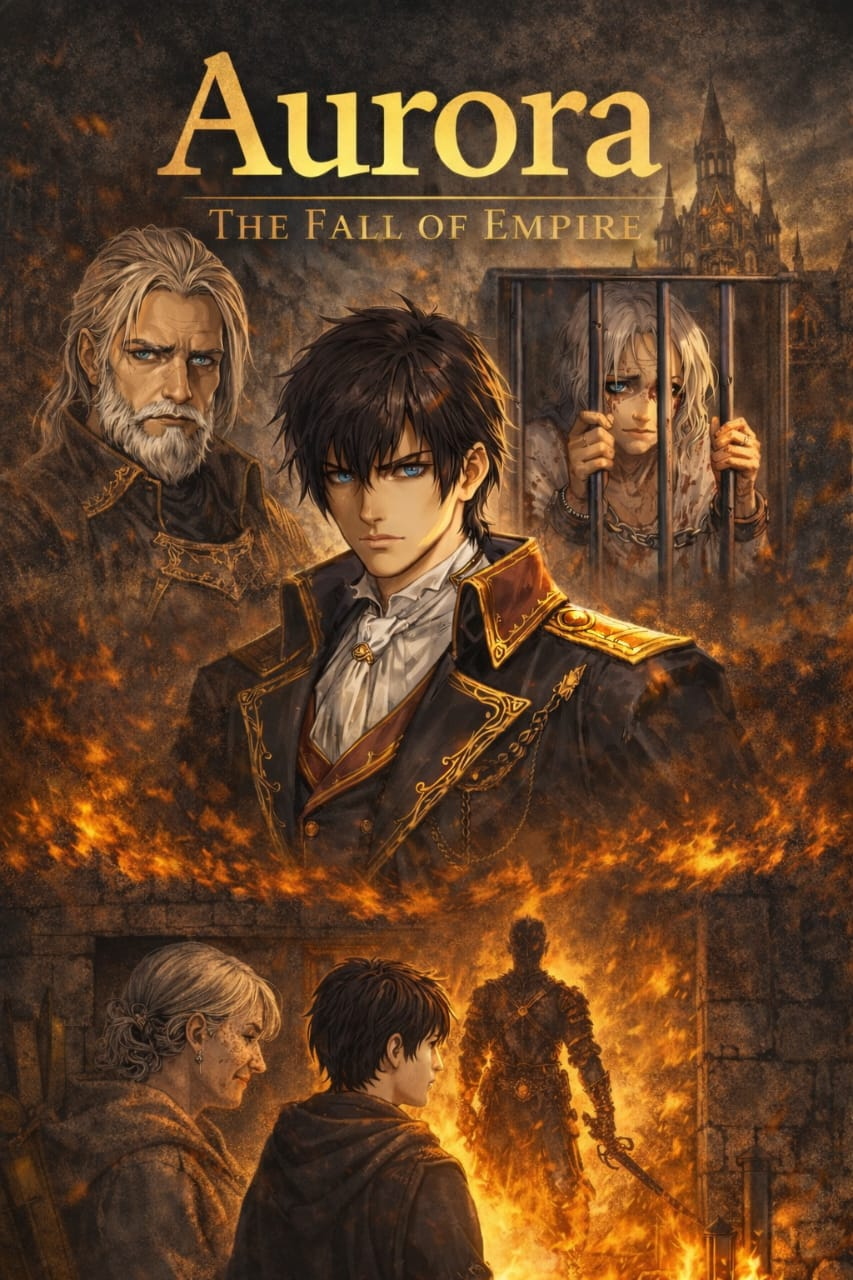
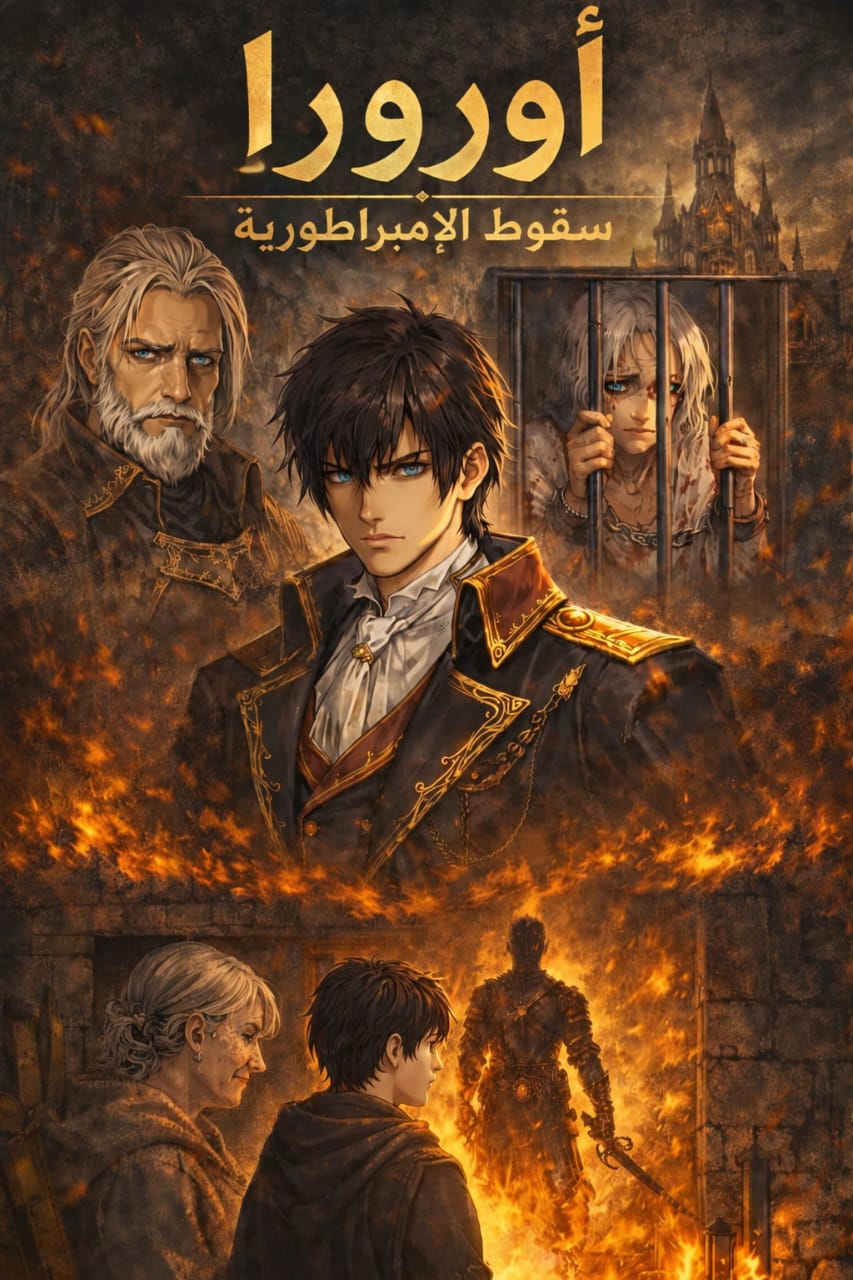
Add files via upload

diff --git a/index.html b/index.html
@@ -46,12 +46,8 @@ try {
     return bt - at;
   });
 
-  // Keep the fifth novel completely independent from Firebase for its identity, cover, and page routing.
-  // Remove any Firebase copy of it so the local novel page is always used.
-  const filteredNovels = novels.filter(n => !/ما\s*لا\s*ينتهي\s*في\s*رأس[يى]/i.test(String(n.title||'')));
-  filteredNovels.push({id:'__mala_local_v2__',title:'ما لا ينتهي في رأسي',description:'تاي لا تنقصه القوة... لكنه اختار الصمت. وفي رأسه تبدأ معركته الخاصة لفهم مشاعره، واكتشاف سبب حاجته للاهتمام الذي لم يطلبه يومًا.',coverUrl:'images/mala-final-cover.jpeg',createdAt:{seconds:0},localOnly:true});
-  novels.length = 0;
-  novels.push(...filteredNovels);
+  const hasMala = novels.some(n => /ما\s*لا\s*ينتهي\s*في\s*رأسي/i.test(String(n.title||'')));
+  if (!hasMala) novels.push({id:'__mala_local__',title:'ما لا ينتهي في رأسي',description:'تاي لا تنقصه القوة... لكنه اختار الصمت. وفي رأسه تبدأ معركة أخرى: فهم مشاعره، ومعرفة لماذا يحتاج إلى اهتمام لم يطلبه يومًا.',coverUrl:'images/mala-cover.jpeg',createdAt:{seconds:0},localOnly:true});
 
   root.innerHTML = '';
   if (!novels.length) {
@@ -60,40 +56,25 @@ try {
     for (const n of novels) {
       const card = document.createElement('div');
       const titleText = String(n.title || '');
-      // Normalize Arabic text so small differences in spacing/diacritics do not
-      // accidentally send the new novel to the generic fallback page.
-      const normalizedTitle = titleText
-        .normalize('NFKD')
-        .replace(/[\u064B-\u065F\u0670\u0640]/g, '')
-        .replace(/\s+/g, ' ')
-        .trim();
-      const isAgentZero = /العميل\s*صفر|مطاردة\s*صفر/i.test(normalizedTitle);
-      const isNerval = /نيرفال|زافيريون/i.test(normalizedTitle);
-      const isDecision = /قرار\s*الذكريات/i.test(normalizedTitle);
-      const isMala = /ما\s*لا\s*ينتهي\s*في\s*رأس[يى]/i.test(normalizedTitle)
-        || (/لا\s*ينتهي/i.test(normalizedTitle) && /رأس[يى]/i.test(normalizedTitle));
-      const targetPage = isMala ? 'mala_final.html' : (isDecision ? 'decision_memories.html' : (isNerval ? 'nerval.html' : (isAgentZero ? 'agent_zero.html' : 'aurora.html')));
-      const coverDefault = isMala ? 'images/mala-final-cover.jpeg' : (isDecision ? 'images/decision-memory-cover.jpg' : (isAgentZero ? 'images/agent-zero-cover.jpg' : (isNerval ? 'images/nerval-cover.jpeg' : 'images/aurora.jpeg')));
-      const coverSrc = isMala ? 'images/mala-final-cover.jpeg' : (n.coverUrl || coverDefault);
+      const isAgentZero = /العميل\s*صفر|مطاردة\s*صفر/i.test(titleText);
+      const isNerval = /نيرفال|زافيريون/i.test(titleText);
+      const isDecision = /قرار\s*الذكريات/i.test(titleText);
+      const isMala = /ما\s*لا\s*ينتهي\s*في\s*رأسي/i.test(titleText);
+      const targetPage = isMala ? 'mala.html' : (isDecision ? 'decision_memories.html' : (isNerval ? 'nerval.html' : (isAgentZero ? 'agent_zero.html' : 'aurora.html')));
+      const coverDefault = isMala ? 'images/mala-cover.jpeg' : (isDecision ? 'images/decision-memory-cover.jpg' : (isAgentZero ? 'images/agent-zero-cover.jpg' : (isNerval ? 'images/nerval-cover.jpeg' : 'images/aurora.jpeg')));
       card.className = 'card';
       card.innerHTML = `
-        <img src="${esc(coverSrc)}" onerror="this.onerror=null;this.src='${coverDefault}'" alt="${esc(n.title || 'رواية')}">
+        <img src="${esc(n.coverUrl || coverDefault)}" alt="${esc(n.title || 'رواية')}">
         <h2>${esc(n.title || 'بدون اسم')}</h2>
         <p>${esc(n.description || '')}</p>
-        <a href="${isMala ? 'mala_final.html' : targetPage + '?id=' + encodeURIComponent(n.id)}"><button>اقرأ الآن</button></a>
+        <a href="${targetPage}?id=${encodeURIComponent(n.id)}"><button>اقرأ الآن</button></a>
       `;
       root.appendChild(card);
     }
   }
 } catch (e) {
   console.error(e);
-  root.innerHTML = `
-    <div class="card">
-      <img src="images/mala-final-cover.jpeg" alt="غلاف ما لا ينتهي في رأسي">
-      <h2>ما لا ينتهي في رأسي</h2>
-      <p>تاي لا تنقصه القوة... لكنه اختار الصمت. وفي رأسه تبدأ معركته الخاصة لفهم مشاعره.</p>
-      <a href="mala_final.html"><button>اقرأ الآن</button></a>
-    </div>`;
+  root.innerHTML = '<p style="color:#aaa">تعذر تحميل الروايات. تأكد من اتصال Firebase.</p>';
 }
 </script>
 </body>
